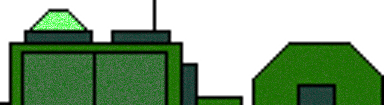
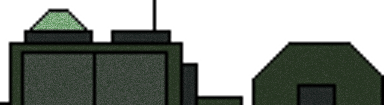
Add enemy buildings
Add enemy marine

diff --git a/main.js b/main.js
@@ -26,8 +26,11 @@ function preload () {
   game.load.image('tank', 'images/tank.png');
   game.load.image('tank_enemy', 'images/tank_enemy.png');
   game.load.image('marine', 'images/marine.png');
+  game.load.image('marine_enemy', 'images/marine_enemy.png');
   game.load.image('war_fac', 'images/war_fac.png');
+  game.load.image('war_fac_enemy', 'images/war_fac_enemy.png');
   game.load.image('barracks', 'images/barracks.png');
+  game.load.image('barracks_enemy', 'images/barracks_enemy.png');
   
   game.load.audio('explode', 'audio/explode.mp3');
   game.load.audio('agony', 'audio/agony.mp3');
@@ -63,16 +66,29 @@ function create () {
     units.push(NewTankEnemy(i, 'cpu'));
   }
   // Add buildings
-  buildings.push(new Building(game, groups.buildings,
-                              'barracks', 'explode',
-                              'training', 'training_complete',
-                              200, {x:250, y:statusHeight + gameWindowHeight}, 'player', NewMarine, 200));
-  buildings.push(new Building(game, groups.buildings,
-                              'war_fac', 'explode',
-                              'building', 'unit_ready',
-                              300, {x:500, y:statusHeight + gameWindowHeight}, 'player', NewTank, 500));
+  buildings.push(NewBarracks(250, 'player', NewMarine));
+  buildings.push(NewFactory(500, 'player', NewTank));
+  
+  buildings.push(NewBarracks(game.world.bounds.width - 1000, 'cpu', NewMarineEnemy));
+  buildings.push(NewFactory(game.world.bounds.width - 750, 'cpu', NewTankEnemy));
   
   mouse = new Mouse(game, statusHeight, gameWindowHeight);
+}
+
+// Building factory functions
+function NewBarracks(x, team, unitFunc) {
+  return new Building(game, groups.buildings,
+                      'barracks' + (team === 'player' ? '' : '_enemy'),
+                      'explode',
+                      'training', 'training_complete',
+                      200, {x:x, y:statusHeight + gameWindowHeight}, team, unitFunc, 200);
+}
+function NewFactory(x, team, unitFunc) {
+  return new Building(game, groups.buildings,
+                      'war_fac' + (team === 'player' ? '' : '_enemy'),
+                      'explode',
+                      'building', 'unit_ready',
+                      300, {x:x, y:statusHeight + gameWindowHeight}, team, unitFunc, 300);
 }
 
 // Unit factory functions
@@ -100,6 +116,15 @@ function NewMarine(x, team) {
                   2.4,
                   5.0, 'm16', 2.0, 300,
                   50,
+                  {x:x, y:statusHeight + gameWindowHeight},
+                  team);
+}
+function NewMarineEnemy(x, team) {
+  return new Unit(game, groups.units,
+                  'marine_enemy', 'agony',
+                  2.0,
+                  5.0, 'm16', 2.0, 300,
+                  60,
                   {x:x, y:statusHeight + gameWindowHeight},
                   team);
 }

diff --git a/building.js b/building.js
@@ -26,7 +26,9 @@ var Building = function(game, buildings,
   this.isBuilding = false;
   this.build = function() {
     if (!this.isBuilding) {
-      sounds.build.play();
+      if (this.team === 'player') {
+        sounds.build.play();
+      }
     }
     this.isBuilding = true;
   }
@@ -39,7 +41,9 @@ var Building = function(game, buildings,
           var unit = buildFunc(this.sprite.x, this.team);
           units.push(unit);
           unit.moveTo(this.dest);
-          sounds.complete.play();
+          if (this.team === 'player') {
+            sounds.complete.play();
+          }
           this.isBuilding = false;
         }
       }
